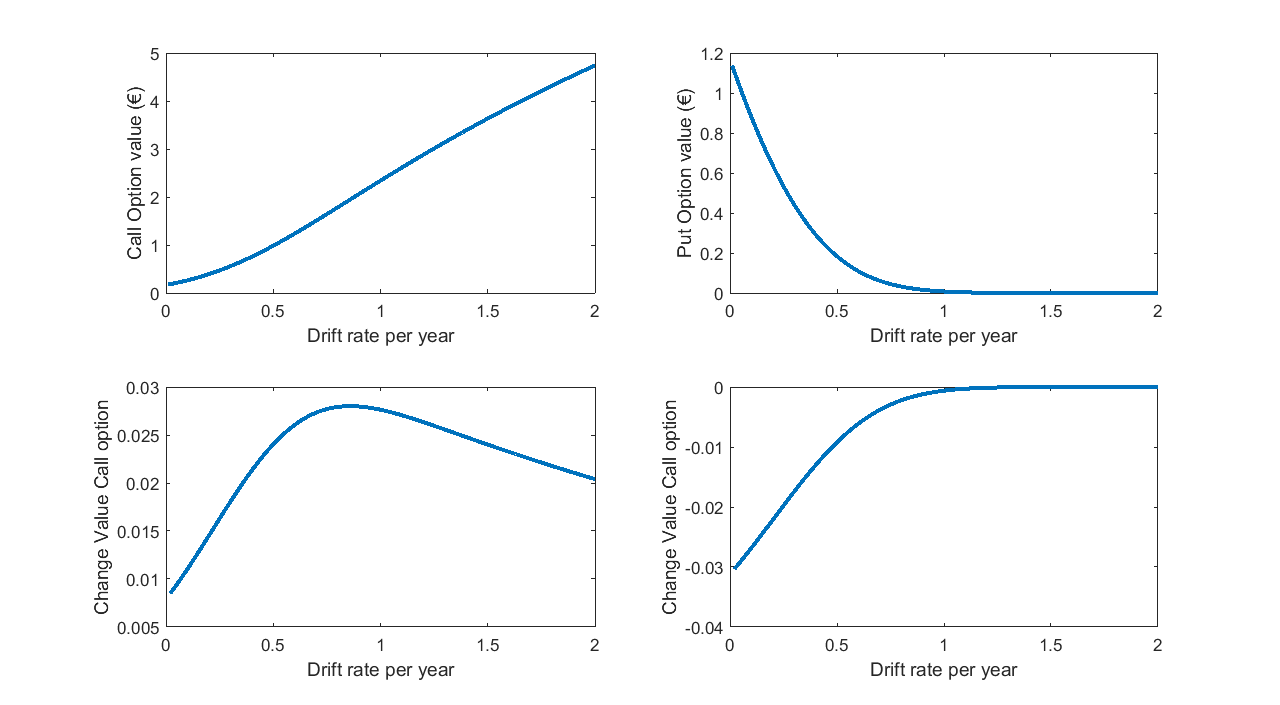
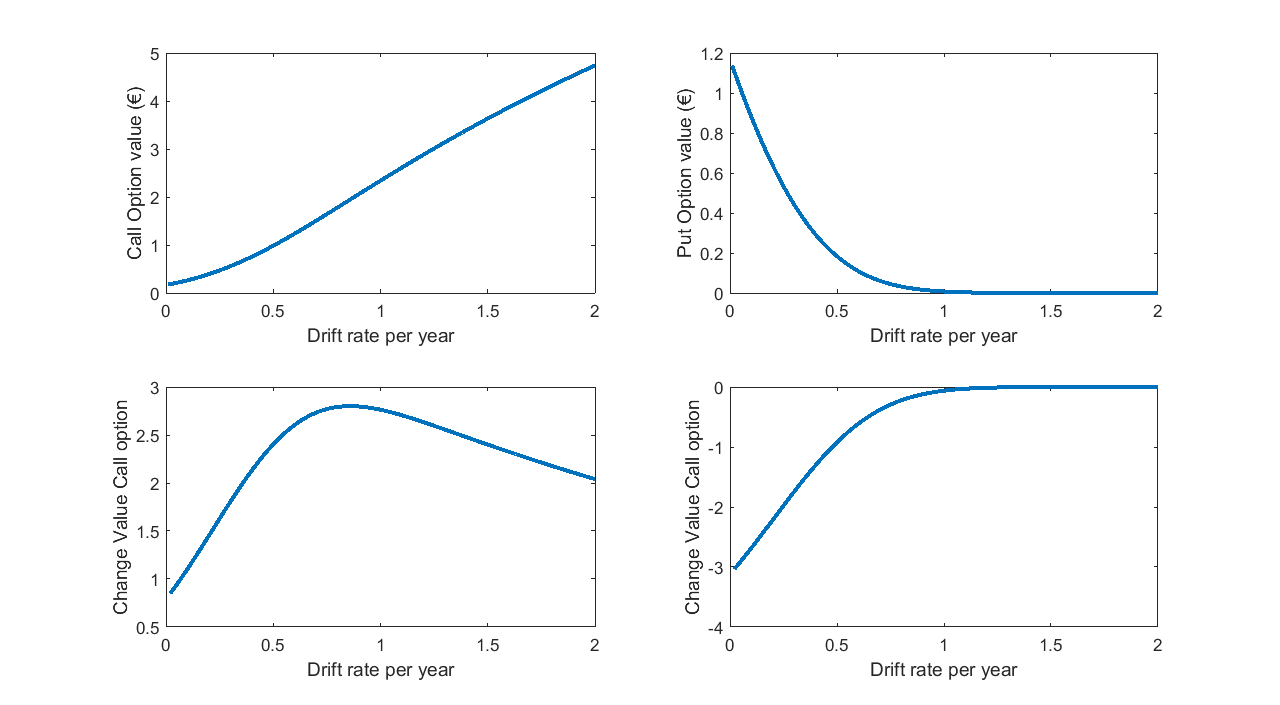
Onlies

diff --git a/4.sensitivity-analysis/src/OnlyStartPrice.m b/4.sensitivity-analysis/src/OnlyStartPrice.m
@@ -40,7 +40,6 @@ set(gca,'FontSize',13)
 subplot(2,2,3)
 hold on
 plot(Startvec(2:end),diff(ValueCall)/resolution,'LineWidth',3)
-plot(Startvec(3:end),diff(diff(ValueCall))/resolution,'LineWidth',3)
 plot([12,12],[0 1],'LineWidth',3)
 hold off
 xlabel('Starting Stock Price','FontSize', 15)
